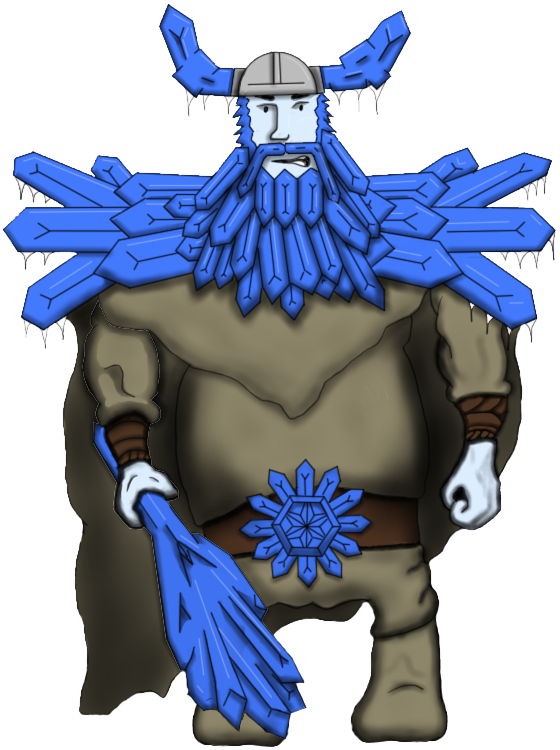
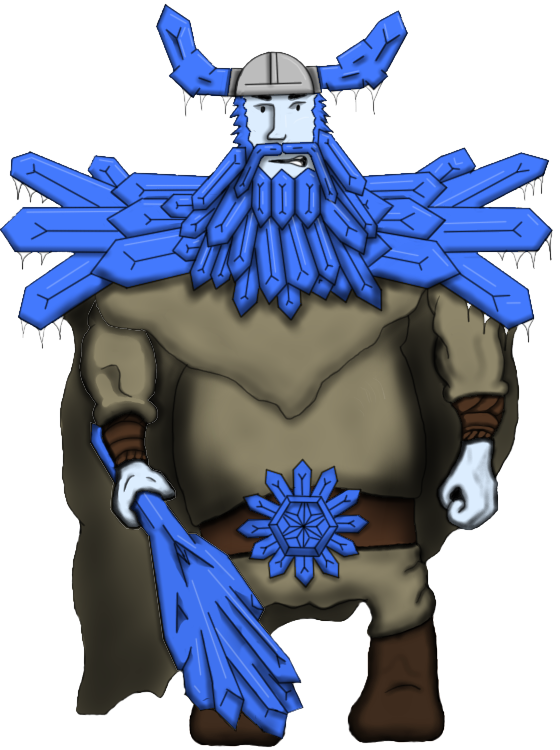
Different songs for campaign

diff --git a/Pentago/Pentago/Pentago/GUI/MenuPage.xaml b/Pentago/Pentago/Pentago/GUI/MenuPage.xaml
@@ -187,33 +187,7 @@
                 </EventTrigger>
             </Button.Triggers>
         </Button>
-        <Button Height="47" HorizontalContentAlignment="Center" BorderBrush="{x:Null}" Name="PlayerProfile" Opacity="1" Panel.ZIndex="0" ContentStringFormat="" Content= "Player Profile" FontFamily="Celtic Garamond the 2nd" FontSize="32" FontWeight="Bold" Background="{x:Null}" OpacityMask="Black" OverridesDefaultStyle="False" Margin="155,357,0,0" VerticalAlignment="Top" HorizontalAlignment="Left" Width="315" BorderThickness="0" MouseEnter="PlayerProfile_MouseEnter" Click="PlayerProfile_Click" >
-            <Button.Triggers>
-                <EventTrigger RoutedEvent="Window.Loaded">
-                    <BeginStoryboard>
-                        <Storyboard>
-                            <ObjectAnimationUsingKeyFrames BeginTime="0:0:0" Storyboard.TargetProperty="Visibility">
-                                <DiscreteObjectKeyFrame KeyTime="0">
-                                    <DiscreteObjectKeyFrame.Value>
-                                        <Visibility>Hidden</Visibility>
-                                    </DiscreteObjectKeyFrame.Value>
-                                </DiscreteObjectKeyFrame>
-                            </ObjectAnimationUsingKeyFrames>
-                            <DoubleAnimation BeginTime="0:0:2.2" Storyboard.TargetProperty="Opacity" From="1" To="0" Duration="0:0:0.1" SpeedRatio="0.2"/>
-                            <DoubleAnimation BeginTime="0:0:2.3" Storyboard.TargetProperty="Opacity" From="0" To="1" Duration="0:0:0.1" SpeedRatio="0.2"/>
-                            <ObjectAnimationUsingKeyFrames BeginTime="0:0:2.4" Storyboard.TargetProperty="Visibility">
-                                <DiscreteObjectKeyFrame KeyTime="0">
-                                    <DiscreteObjectKeyFrame.Value>
-                                        <Visibility>Visible</Visibility>
-                                    </DiscreteObjectKeyFrame.Value>
-                                </DiscreteObjectKeyFrame>
-                            </ObjectAnimationUsingKeyFrames>
-                        </Storyboard>
-                    </BeginStoryboard>
-                </EventTrigger>
-            </Button.Triggers>
-        </Button>
-        <Button Height="47" HorizontalContentAlignment="Center" BorderBrush="{x:Null}" Name="Highscores" Opacity="1" Panel.ZIndex="0" ContentStringFormat="" Content= "Highscores" FontFamily="Celtic Garamond the 2nd" FontSize="32" FontWeight="Bold" Background="{x:Null}" OpacityMask="Black" OverridesDefaultStyle="False" Margin="128,418,0,0" VerticalAlignment="Top" HorizontalAlignment="Left" Width="333" BorderThickness="0" MouseEnter="Highscores_MouseEnter" Click="Highscores_Click" >
+        <Button Height="47" HorizontalContentAlignment="Center" BorderBrush="{x:Null}" Name="Highscores" Opacity="1" Panel.ZIndex="0" ContentStringFormat="" Content= "Highscores" FontFamily="Celtic Garamond the 2nd" FontSize="32" FontWeight="Bold" Background="{x:Null}" OpacityMask="Black" OverridesDefaultStyle="False" Margin="137,364,0,0" VerticalAlignment="Top" HorizontalAlignment="Left" Width="333" BorderThickness="0" MouseEnter="Highscores_MouseEnter" Click="Highscores_Click" >
             <Button.Triggers>
                 <EventTrigger RoutedEvent="Window.Loaded">
                     <BeginStoryboard>
@@ -239,7 +213,7 @@
                 </EventTrigger>
             </Button.Triggers>
         </Button>
-        <Button Height="47" HorizontalContentAlignment="Center" BorderBrush="{x:Null}" Name="GameOptionsButton" Opacity="1" Panel.ZIndex="0" ContentStringFormat="" Content= "Game Options" FontFamily="Celtic Garamond the 2nd" FontSize="32" FontWeight="Bold" Background="{x:Null}" OpacityMask="Black" OverridesDefaultStyle="False" Margin="145,482,0,0" VerticalAlignment="Top" HorizontalAlignment="Left" Width="333" BorderThickness="0" MouseEnter="GameOptionsButton_MouseEnter" Click="GameOptionsButton_Click" >
+        <Button Height="47" HorizontalContentAlignment="Center" BorderBrush="{x:Null}" Name="GameOptionsButton" Opacity="1" Panel.ZIndex="0" ContentStringFormat="" Content= "Game Options" FontFamily="Celtic Garamond the 2nd" FontSize="32" FontWeight="Bold" Background="{x:Null}" OpacityMask="Black" OverridesDefaultStyle="False" Margin="145,418,0,0" VerticalAlignment="Top" HorizontalAlignment="Left" Width="333" BorderThickness="0" MouseEnter="GameOptionsButton_MouseEnter" Click="GameOptionsButton_Click" >
             <Button.Triggers>
                 <EventTrigger RoutedEvent="Window.Loaded">
                     <BeginStoryboard>
@@ -265,7 +239,7 @@
                 </EventTrigger>
             </Button.Triggers>
         </Button>
-        <Button Height="47" HorizontalContentAlignment="Center" BorderBrush="{x:Null}" x:Name="HelpButton" Opacity="1" Panel.ZIndex="0" ContentStringFormat="" Content= "How to Play" FontFamily="Celtic Garamond the 2nd" FontSize="32" FontWeight="Bold" Background="{x:Null}" OpacityMask="Black" OverridesDefaultStyle="False" Margin="137,543,0,0" VerticalAlignment="Top" HorizontalAlignment="Left" Width="333" BorderThickness="0" MouseEnter="GameOptionsButton_MouseEnter" Click="HelpButton_Click" >
+        <Button Height="47" HorizontalContentAlignment="Center" BorderBrush="{x:Null}" x:Name="HelpButton" Opacity="1" Panel.ZIndex="0" ContentStringFormat="" Content= "How to Play" FontFamily="Celtic Garamond the 2nd" FontSize="32" FontWeight="Bold" Background="{x:Null}" OpacityMask="Black" OverridesDefaultStyle="False" Margin="137,482,0,0" VerticalAlignment="Top" HorizontalAlignment="Left" Width="333" BorderThickness="0" MouseEnter="GameOptionsButton_MouseEnter" Click="HelpButton_Click" >
             <Button.Triggers>
                 <EventTrigger RoutedEvent="Window.Loaded">
                     <BeginStoryboard>
@@ -291,7 +265,7 @@
                 </EventTrigger>
             </Button.Triggers>
         </Button>
-        <Button Height="47" HorizontalContentAlignment="Center" BorderBrush="{x:Null}" Name="Quit" Opacity="1" Panel.ZIndex="0" ContentStringFormat="" Content= "Quit" FontFamily="Celtic Garamond the 2nd" FontSize="32" FontWeight="Bold" Background="{x:Null}" OpacityMask="Black" OverridesDefaultStyle="False" Margin="137,595,0,0" VerticalAlignment="Top" HorizontalAlignment="Left" Width="333" BorderThickness="0" Click="Quit_Click" MouseEnter="Quit_MouseEnter" >
+        <Button Height="47" HorizontalContentAlignment="Center" BorderBrush="{x:Null}" Name="Quit" Opacity="1" Panel.ZIndex="0" ContentStringFormat="" Content= "Quit" FontFamily="Celtic Garamond the 2nd" FontSize="32" FontWeight="Bold" Background="{x:Null}" OpacityMask="Black" OverridesDefaultStyle="False" Margin="137,534,0,0" VerticalAlignment="Top" HorizontalAlignment="Left" Width="333" BorderThickness="0" Click="Quit_Click" MouseEnter="Quit_MouseEnter" >
             <Button.Triggers>
                 <EventTrigger RoutedEvent="Window.Loaded">
                     <BeginStoryboard>
@@ -346,7 +320,7 @@
         <Image Height="28" HorizontalAlignment="Left" Margin="568,199,0,0" Name="PlayerVsComputerOff" MouseDown="PlayerVsComputer_Click" Source="/Pentago;component/GUI/Images/GreyCrystal.png" Stretch="Fill" VerticalAlignment="Top" Visibility="Hidden" Width="27" Panel.ZIndex="0" />
         <Image Height="28" HorizontalAlignment="Left" Margin="568,284,0,0" MouseDown="Player1_Click" Name="Player1MoveFirstOff" Panel.ZIndex="0" Source="/Pentago;component/GUI/Images/GreyCrystal.png" Stretch="Fill" VerticalAlignment="Top" Width="27" Visibility="Hidden" />
         <Image Height="28" HorizontalAlignment="Left" Margin="568,320,0,0" MouseDown="Player2_Click" Name="Player2MoveFirstOff" Panel.ZIndex="0" Source="/Pentago;component/GUI/Images/GreyCrystal.png" Stretch="Fill" VerticalAlignment="Top" Width="27" Visibility="Hidden" />
-        <Image Margin="0,152,18,0" Name="image1" Stretch="Fill" Source="/Pentago;component/GUI/Images/TitleWork.png" HorizontalAlignment="Right" Width="314" Height="307" VerticalAlignment="Top" Panel.ZIndex="-15" />
+        <Image Margin="0,0,132,204" Name="image1" Stretch="Fill" Source="/Pentago;component/GUI/Images/Logo.png" HorizontalAlignment="Right" Width="314" Height="214" VerticalAlignment="Bottom" Panel.ZIndex="-15" />
         <DockPanel x:Name="StoryModePanel" HorizontalAlignment="Left" Height="675" Margin="519,50,0,0" VerticalAlignment="Top" Width="375" Panel.ZIndex="-15" Visibility="Hidden">
             <DockPanel.Background>
                 <ImageBrush ImageSource="Images/FinalScroll.png"/>
@@ -724,6 +698,7 @@
             </Button.Background>
         </Button>
         <TextBlock x:Name="DifficultyIndicator" HorizontalAlignment="Left" Height="33" Margin="619,559,0,0" TextWrapping="Wrap" Text="Medium" VerticalAlignment="Top" Width="157" FontFamily="Celtic Garamond the 2nd" FontSize="24" TextAlignment="Center" Visibility="Hidden"/>
+        <Image x:Name="Logo" HorizontalAlignment="Left" Height="100" VerticalAlignment="Top" Width="100" Source="Images/Shield.png" Margin="10,10,0,0"/>
         <Grid.Background>
             <ImageBrush ImageSource="Images/Main Background.png" />
         </Grid.Background>

diff --git a/Pentago/Pentago/Pentago/GUI/GamePage.xaml b/Pentago/Pentago/Pentago/GUI/GamePage.xaml
@@ -834,7 +834,7 @@
             </Image.RenderTransform>
         </Image>
         <Rectangle Height="75" Name="ActivePlayer" Stroke="Gray" Width="75" Margin="681,75,684,730" Grid.Row="1" />
-        <TextBlock Height="50"  Margin="511,0,497,70" Name="winnerAnnoucement" Text="" FontWeight="Bold" FontSize="24" FontFamily="Celtic Garamond the 2nd" TextAlignment="Center" VerticalAlignment="Bottom" Grid.Row="1" />
+        <TextBlock Height="50"  Margin="470,0,471,70" Name="winnerAnnoucement" Text="" FontWeight="Bold" FontSize="24" FontFamily="Celtic Garamond the 2nd" TextAlignment="Center" VerticalAlignment="Bottom" Grid.Row="1" Width="560" />
         <Button Content="Pause" BorderThickness="0" BorderBrush="{x:Null}" FontFamily="Celtic Garamond the 2nd" FontSize="36" FontWeight="Bold" Height="79" Margin="0,32,85,0" Name="ExitButton"  Width="178" Click="ExitButton_Click" MouseEnter="ExitButton_MouseEnter" HorizontalAlignment="Right" VerticalAlignment="Top" Grid.Row="1" Panel.ZIndex="100" >
             <Button.Background>
                 <ImageBrush ImageSource="Images/PauseScroll.png"/>
@@ -842,7 +842,7 @@
         </Button>
         <TextBlock Height="56"  Margin="469,12,470,812" Name="ActiveTurnText" Text="Current Turn" FontFamily="Celtic Garamond the 2nd" FontSize="40" FontWeight="Bold" TextAlignment="Center" Grid.Row="1" />
         <TextBlock Height="49"  Margin="95,0,0,70" Name="Player1NameText" Text="" FontFamily="Celtic Garamond the 2nd" FontSize="30" FontWeight="Bold" TextAlignment="Center" HorizontalAlignment="Left" Width="343" VerticalAlignment="Bottom" Grid.Row="1" />
-        <Image Margin="0,0,17,127" Name="IceGiant" Stretch="Fill"  Source="Images/Nub.png" Height="546" VerticalAlignment="Bottom" HorizontalAlignment="Right" Width="342" RenderTransformOrigin="0.5,0.5" Grid.Row="1" >
+        <Image Margin="0,0,17,127" Name="IceGiant" Stretch="Fill"  Source="Images/IceGiant.png" Height="546" VerticalAlignment="Bottom" HorizontalAlignment="Right" Width="342" RenderTransformOrigin="0.5,0.5" Grid.Row="1" MouseDown="IceGiant_MouseDown" >
             <Image.RenderTransform>
                 <TransformGroup>
                     <ScaleTransform ScaleY="1" ScaleX="-1"/>
@@ -912,7 +912,7 @@
             </Button.Background>
         </Button>
         <Image HorizontalAlignment="Left" Height="100" Margin="469,-52,0,0" VerticalAlignment="Top" Width="100" Grid.RowSpan="2"/>
-        <Image Margin="0,0,17,127" x:Name="IceGiant_Overlay" Stretch="Fill"  Source="Images/OverLay.png" HorizontalAlignment="Right" Width="342" RenderTransformOrigin="0.5,0.5" Height="546" VerticalAlignment="Bottom" Grid.Row="1" Panel.ZIndex="1" >
+        <Image Margin="0,0,17,127" x:Name="IceGiant_Overlay" Stretch="Fill"  Source="Images/OverLay.png" HorizontalAlignment="Right" Width="342" RenderTransformOrigin="0.5,0.5" Height="546" VerticalAlignment="Bottom" Grid.Row="1" Panel.ZIndex="1" Visibility="Hidden" >
             <Image.RenderTransform>
                 <TransformGroup>
                     <ScaleTransform ScaleY="1" ScaleX="-1"/>
@@ -922,7 +922,7 @@
                 </TransformGroup>
             </Image.RenderTransform>
         </Image>
-        <Image Margin="0,0,17,127" x:Name="IceGiant_Arm" Stretch="Fill"  Source="Images/Arm_New.png" HorizontalAlignment="Right" Width="342" RenderTransformOrigin="0.5,0.5" Height="546" VerticalAlignment="Bottom" Grid.Row="1" FlowDirection="RightToLeft" >
+        <Image Margin="0,0,17,127" x:Name="IceGiant_Arm" Stretch="Fill"  Source="Images/Arm_New.png" HorizontalAlignment="Right" Width="342" RenderTransformOrigin="0.5,0.5" Height="546" VerticalAlignment="Bottom" Grid.Row="1" FlowDirection="RightToLeft" Visibility="Hidden" >
             <Image.RenderTransform>
                 <TransformGroup>
                     <ScaleTransform ScaleY="1" ScaleX="1"/>
@@ -932,8 +932,9 @@
                 </TransformGroup>
             </Image.RenderTransform>
         </Image>
-        <Image HorizontalAlignment="Right" Margin="0,0,246,585" x:Name="SpeechBubble_Copy" Stretch="Fill" Width="207"  Opacity="1" Panel.ZIndex="-10" Source="Images/SpeechBubble.png" Visibility="Hidden" Height="184" VerticalAlignment="Bottom" Grid.Row="1" />
-        <TextBlock Name="IceGiantSpeechBubble" HorizontalAlignment="Right" Height="76" Margin="0,0,273,654" Grid.Row="1" TextWrapping="Wrap" Text="TextBlock" VerticalAlignment="Bottom" Width="148" FontFamily="/Pentago;component/#Celtic Garamond the 2nd" FontSize="18" Visibility="Hidden"/>
+        <Image HorizontalAlignment="Right" Margin="0,0,246,585" x:Name="IceGiantSpeechBubble" Stretch="Fill" Width="207"  Opacity="1" Panel.ZIndex="-10" Source="Images/SpeechBubble.png" Visibility="Hidden" Height="184" VerticalAlignment="Bottom" Grid.Row="1" />
+        <TextBlock Name="IceGiantText" HorizontalAlignment="Right" Height="76" Margin="0,0,273,654" Grid.Row="1" TextWrapping="Wrap" Text="TextBlock" VerticalAlignment="Bottom" Width="148" FontFamily="/Pentago;component/#Celtic Garamond the 2nd" FontSize="18" Visibility="Hidden"/>
+        <Image x:Name="Logo" HorizontalAlignment="Left" Height="100" VerticalAlignment="Top" Width="100" Grid.RowSpan="2" Source="Images/Shield.png" Margin="10,10,0,0"/>
     </Grid>
     <Page.Background>
         <ImageBrush ImageSource="/Pentago;component/GUI/Images/Main Background.png" />

diff --git a/Pentago/Pentago/Pentago/GUI/HelpPage.xaml b/Pentago/Pentago/Pentago/GUI/HelpPage.xaml
@@ -46,12 +46,12 @@
             </Image.RenderTransform>
         </Image>
         <TextBlock x:Name="HelpTextBlock" HorizontalAlignment="Left" Height="164" Margin="182,0,0,569" TextWrapping="Wrap" Text="TextBlock" VerticalAlignment="Bottom" Width="238" FontFamily="/Pentago;component/#Celtic Garamond the 2nd" FontSize="16"/>
-        <Button x:Name="HelpLeft"  HorizontalAlignment="Right" Margin="0,0,514,80" Width="148" Height="52" VerticalAlignment="Bottom" Click="HelpLeft_Click" Visibility="Hidden">
+        <Button x:Name="HelpLeft"  HorizontalAlignment="Right" Margin="0,0,514,80" Width="148" Height="52" VerticalAlignment="Bottom" Click="HelpLeft_Click" Visibility="Hidden" MouseEnter="HelpLeft_MouseEnter">
             <Button.Background>
                 <ImageBrush ImageSource="/Pentago;component/GUI/Images/flatArrow.png"/>
             </Button.Background>
         </Button>
-        <Button x:Name="HelpRight" Margin="0,0,279,78" RenderTransformOrigin="0.5,0.5" Height="52" VerticalAlignment="Bottom" HorizontalAlignment="Right" Width="148" Click="HelpRight_Click">
+        <Button x:Name="HelpRight" Margin="0,0,279,78" RenderTransformOrigin="0.5,0.5" Height="52" VerticalAlignment="Bottom" HorizontalAlignment="Right" Width="148" Click="HelpRight_Click" MouseEnter="HelpRight_MouseEnter">
             <Button.LayoutTransform>
                 <TransformGroup>
                     <ScaleTransform ScaleY="1" ScaleX="-1"/>
@@ -65,6 +65,7 @@
             </Button.Background>
         </Button>
         <Button Height="48" HorizontalContentAlignment="Center" BorderBrush="{x:Null}" x:Name="ExitHelp" Opacity="1" Panel.ZIndex="0" ContentStringFormat="" Content= "Exit Help" FontFamily="Celtic Garamond the 2nd" FontSize="32" FontWeight="Bold" Background="{x:Null}" OpacityMask="Black" OverridesDefaultStyle="False" Margin="1067,110,0,0" VerticalAlignment="Top" HorizontalAlignment="Left" Width="223" BorderThickness="0" MouseEnter="ExitHelp_MouseEnter" Click="ExitHelp_Click" />
+        <Image x:Name="Logo" HorizontalAlignment="Left" Height="100" VerticalAlignment="Top" Width="100" Source="Images/Shield.png" Margin="10,10,0,0"/>
 
     </Grid>
 </Page>

diff --git a/Pentago/Pentago/Pentago/GUI/MapPage.xaml b/Pentago/Pentago/Pentago/GUI/MapPage.xaml
@@ -50,5 +50,6 @@
         <Image x:Name="Cottages" Margin="667,0,0,629" Panel.ZIndex="-1" Source="Images/Cottages.png" Height="158" VerticalAlignment="Bottom" Grid.Row="1" HorizontalAlignment="Left" Width="233" MouseDown="Cottages_MouseDown" />
         <Image x:Name="Boat2" Margin="816,410,0,0" Panel.ZIndex="-1" Source="Images/Boat2.png" Grid.Row="1" Height="158" VerticalAlignment="Top" HorizontalAlignment="Left" Width="290" MouseDown="Boat2_MouseDown" />
         <Image x:Name="Castle" Margin="1187,128,-37,0" Panel.ZIndex="-1" Source="Images/Castle.png" Grid.Row="1" HorizontalAlignment="Left" Width="290" Height="230" VerticalAlignment="Top" MouseDown="Castle_MouseDown" />
+        <Image x:Name="Logo" HorizontalAlignment="Left" Height="100" VerticalAlignment="Top" Width="100" Grid.RowSpan="2" Source="Images/Shield.png" Margin="10,10,0,0"/>
     </Grid>
 </Page>

diff --git a/Pentago/Pentago/Pentago/GUI/GamePage.xaml.cs b/Pentago/Pentago/Pentago/GUI/GamePage.xaml.cs
@@ -87,12 +87,12 @@ namespace Pentago.GUI
             InitializeComponent();
             CreateChildrenList();
             quotes = new Quotes();
-            SoundManager.backgroundMusicPlayer.Open(new Uri("GUI/Sounds/Gameplay.mp3", UriKind.Relative));
-            SoundManager.backgroundMusicPlayer.Play();
             gameOptions = options;
             switch (gameOptions._TypeOfGame)
             {
                 case GameOptions.TypeOfGame.QuickMatch:
+                    SoundManager.backgroundMusicPlayer.Open(new Uri("GUI/Sounds/Gameplay.mp3", UriKind.Relative));
+                    SoundManager.backgroundMusicPlayer.Play();
                     player1 = options._Player1;
                     player2 = options._Player2;
                     gameBrain = new GameBrain(player1);
@@ -101,6 +101,8 @@ namespace Pentago.GUI
                     isNetwork = false;
                     break;
                 case GameOptions.TypeOfGame.Network:
+                    SoundManager.backgroundMusicPlayer.Open(new Uri("GUI/Sounds/Gameplay.mp3", UriKind.Relative));
+                    SoundManager.backgroundMusicPlayer.Play();
                     player1 = options._Player1;
                     player2 = options._Player2;
                     gameBrain = new GameBrain(player1);
@@ -111,6 +113,8 @@ namespace Pentago.GUI
                     isNetwork = true;
                     break;
                 case GameOptions.TypeOfGame.AI:
+                    SoundManager.backgroundMusicPlayer.Open(new Uri("GUI/Sounds/Gameplay.mp3", UriKind.Relative));
+                    SoundManager.backgroundMusicPlayer.Play();
                     player1 = options._Player1;
                     computerPlayer = options._ComputerPlayer;
                     gameBrain = new GameBrain(player1, computerPlayer);
@@ -170,31 +174,43 @@ namespace Pentago.GUI
             switch (levelPlay)
             {
                 case 0:
+                    SoundManager.backgroundMusicPlayer.Open(new Uri("GUI/Sounds/10.mp3", UriKind.Relative));
+                    SoundManager.backgroundMusicPlayer.Play();
                     background.ImageSource = new BitmapImage(new Uri("pack://application:,,,/GUI/images/Main Background.png", UriKind.Absolute));
                     GameBackground.Background = background;
                     GridBackground.Source = new BitmapImage(new Uri("pack://application:,,,/GUI/images/mainBoard.png", UriKind.Absolute));
                     break;
                 case 1:
+                    SoundManager.backgroundMusicPlayer.Open(new Uri("GUI/Sounds/3.mp3", UriKind.Relative));
+                    SoundManager.backgroundMusicPlayer.Play();
                     background.ImageSource = new BitmapImage(new Uri("pack://application:,,,/GUI/images/Ship Background_Ship Background.png", UriKind.Absolute));
                     GameBackground.Background = background;
                     GridBackground.Source = new BitmapImage(new Uri("pack://application:,,,/GUI/images/BoatBoard.png", UriKind.Absolute));
                     break;
                 case 2:
+                    SoundManager.backgroundMusicPlayer.Open(new Uri("GUI/Sounds/20.mp3", UriKind.Relative));
+                    SoundManager.backgroundMusicPlayer.Play();
                     background.ImageSource = new BitmapImage(new Uri("pack://application:,,,/GUI/images/Villiage Background_Village Background.png", UriKind.Absolute));
                     GameBackground.Background = background;
                     GridBackground.Source = new BitmapImage(new Uri("pack://application:,,,/GUI/images/CottageBoard.png", UriKind.Absolute));
                     break;
                 case 3:
+                    SoundManager.backgroundMusicPlayer.Open(new Uri("GUI/Sounds/29.mp3", UriKind.Relative));
+                    SoundManager.backgroundMusicPlayer.Play();
                     background.ImageSource = new BitmapImage(new Uri("pack://application:,,,/GUI/images/Ship Background_Ship Background.png", UriKind.Absolute));
                     GameBackground.Background = background;
                     GridBackground.Source = new BitmapImage(new Uri("pack://application:,,,/GUI/images/BoatBoard.png", UriKind.Absolute));
                     break;
                 case 4:
+                    SoundManager.backgroundMusicPlayer.Open(new Uri("GUI/Sounds/11.mp3", UriKind.Relative));
+                    SoundManager.backgroundMusicPlayer.Play();
                     background.ImageSource = new BitmapImage(new Uri("pack://application:,,,/GUI/images/Ice Palace Background_Final Background.png", UriKind.Absolute));
                     GameBackground.Background = background;
                     GridBackground.Source = new BitmapImage(new Uri("pack://application:,,,/GUI/images/castleBoard.png", UriKind.Absolute));
                     break;
                 default:
+                    SoundManager.backgroundMusicPlayer.Open(new Uri("GUI/Sounds/10.mp3", UriKind.Relative));
+                    SoundManager.backgroundMusicPlayer.Play();
                     background.ImageSource = new BitmapImage(new Uri("pack://application:,,,/GUI/images/Main Background.png", UriKind.Absolute));
                     GameBackground.Background = background;
                     GridBackground.Source = new BitmapImage(new Uri("pack://application:,,,/GUI/images/mainBoard.png", UriKind.Absolute));
@@ -2413,6 +2429,45 @@ namespace Pentago.GUI
             No_Button.Visibility = Visibility.Hidden;
             ConfirmLabel.Visibility = Visibility.Hidden;
             Exit_Button.Visibility = Visibility.Visible;
+        }
+
+        int GiantSpeechCounter = 1;
+
+        private void IceGiant_MouseDown(object sender, MouseButtonEventArgs e)
+        {
+            IceGiantSpeechBubble.Visibility = Visibility.Visible;
+            IceGiantText.Visibility = Visibility.Visible;
+                if (SpeechCounter == 9)
+            {
+                SpeechCounter = 1;
+            }
+            IceGiantText.Text = quotes.IceGiant;
+            //BubbleText.Text = VikingSpeechChanger(SpeechCounter);
+            SpeechCounter++;
+
+            Storyboard storyboard = new Storyboard();
+            TimeSpan duration = new TimeSpan(0, 0, 8);
+
+            DoubleAnimation fade = new DoubleAnimation();
+
+            fade.From = 1.0;
+            fade.To = 0.0;
+            fade.Duration = new Duration(duration);
+
+            DoubleAnimation fade2 = new DoubleAnimation();
+
+            fade2.From = 1.0;
+            fade2.To = 0.0;
+            fade2.Duration = new Duration(duration);
+
+            Storyboard.SetTargetName(fade, "IceGiantSpeechBubble");
+            Storyboard.SetTargetProperty(fade, new PropertyPath(Control.OpacityProperty));
+            storyboard.Children.Add(fade);
+            Storyboard.SetTargetName(fade2, "IceGiantText");
+            Storyboard.SetTargetProperty(fade2, new PropertyPath(Control.OpacityProperty));
+            storyboard.Children.Add(fade2);
+
+            storyboard.Begin(this);
         }
     }
 }

diff --git a/Pentago/Pentago/Pentago/GUI/HelpPage.xaml.cs b/Pentago/Pentago/Pentago/GUI/HelpPage.xaml.cs
@@ -11,6 +11,7 @@ using System.Windows.Media;
 using System.Windows.Media.Imaging;
 using System.Windows.Shapes;
 using Pentago.GameCore;
+using Pentago.GUI.Classes;
 
 namespace Pentago.GUI
 {
@@ -22,6 +23,8 @@ namespace Pentago.GUI
         public HelpPage()
         {
             InitializeComponent();
+            SoundManager.backgroundMusicPlayer.Open(new Uri("GUI/Sounds/14.mp3", UriKind.Relative));
+            SoundManager.backgroundMusicPlayer.Play();
             quotes = new Quotes();
             helpImageChange = 1;
             HelpTextBlock.Text = quotes.Elder;
@@ -44,6 +47,7 @@ namespace Pentago.GUI
 
         private void HelpRight_Click(object sender, RoutedEventArgs e)
         {
+            SoundManager.playSFX(SoundManager.SoundType.Click);
             helpImageChange++;
             HelpImage.Source = System.Windows.Interop.Imaging.CreateBitmapSourceFromHBitmap(new System.Drawing.Bitmap("GUI/Images/Help" + helpImageChange + ".png").GetHbitmap(), IntPtr.Zero, System.Windows.Int32Rect.Empty, BitmapSizeOptions.FromWidthAndHeight((int)HelpImage.Width, (int)HelpImage.Height));
             HelpTextBlock.Text = quotes.Elder;
@@ -56,6 +60,7 @@ namespace Pentago.GUI
 
         private void HelpLeft_Click(object sender, RoutedEventArgs e)
         {
+            SoundManager.playSFX(SoundManager.SoundType.Click);
             helpImageChange--;
             HelpImage.Source = System.Windows.Interop.Imaging.CreateBitmapSourceFromHBitmap(new System.Drawing.Bitmap("GUI/Images/Help" + helpImageChange + ".png").GetHbitmap(), IntPtr.Zero, System.Windows.Int32Rect.Empty, BitmapSizeOptions.FromWidthAndHeight((int)HelpImage.Width, (int)HelpImage.Height));
             HelpTextBlock.Text = quotes.Elder;            
@@ -70,13 +75,24 @@ namespace Pentago.GUI
         private void ExitHelp_Click(object sender, RoutedEventArgs e)
         {
             //this.Close();
+            SoundManager.playSFX(SoundManager.SoundType.Click);
             MenuPage menu = new MenuPage();
             NavigationService.Navigate(menu);
         }
 
         private void ExitHelp_MouseEnter(object sender, MouseEventArgs e)
         {
+            SoundManager.playSFX(SoundManager.SoundType.MouseOver);
+        }
 
+        private void HelpRight_MouseEnter(object sender, MouseEventArgs e)
+        {
+            SoundManager.playSFX(SoundManager.SoundType.MouseOver);
+        }
+
+        private void HelpLeft_MouseEnter(object sender, MouseEventArgs e)
+        {
+            SoundManager.playSFX(SoundManager.SoundType.MouseOver);
         }
     }
 }

diff --git a/Pentago/Pentago/Pentago/GameCore/Quotes.cs b/Pentago/Pentago/Pentago/GameCore/Quotes.cs
@@ -126,7 +126,7 @@ namespace Pentago.GameCore
             ElderQuotes.Add("Diagonal moves can be very strong attacks but the viking was too obvious here and was blocked by the ice giant. No matter how that quadrant is rotated that move is blocked.");
             ElderQuotes.Add("A few moves later the ice giant has set up a sneaky attack but spins the battlefield too soon giving the viking a chance to defend the final attack.");
             ElderQuotes.Add("A few moves later the ice giant has set up a sneaky attack but spins the battlefield too soon giving the viking a chance to defend the final attack.");
-            ElderQuotes.Add("It looks like the ice giant has block another attack from the viking but he forgot about battlefield rotations! the viking can rotate the bottom right board to unblock a victorious attack.");
+            ElderQuotes.Add("It looks like the ice giant has blocked another attack from the viking but he forgot about battlefield rotations! the viking can rotate the bottom right board to unblock a victorious attack.");
             ElderQuotes.Add("Our viking friend has won! Remember to always look at the battlefield rotations or this might happen to you.");
         }
 
